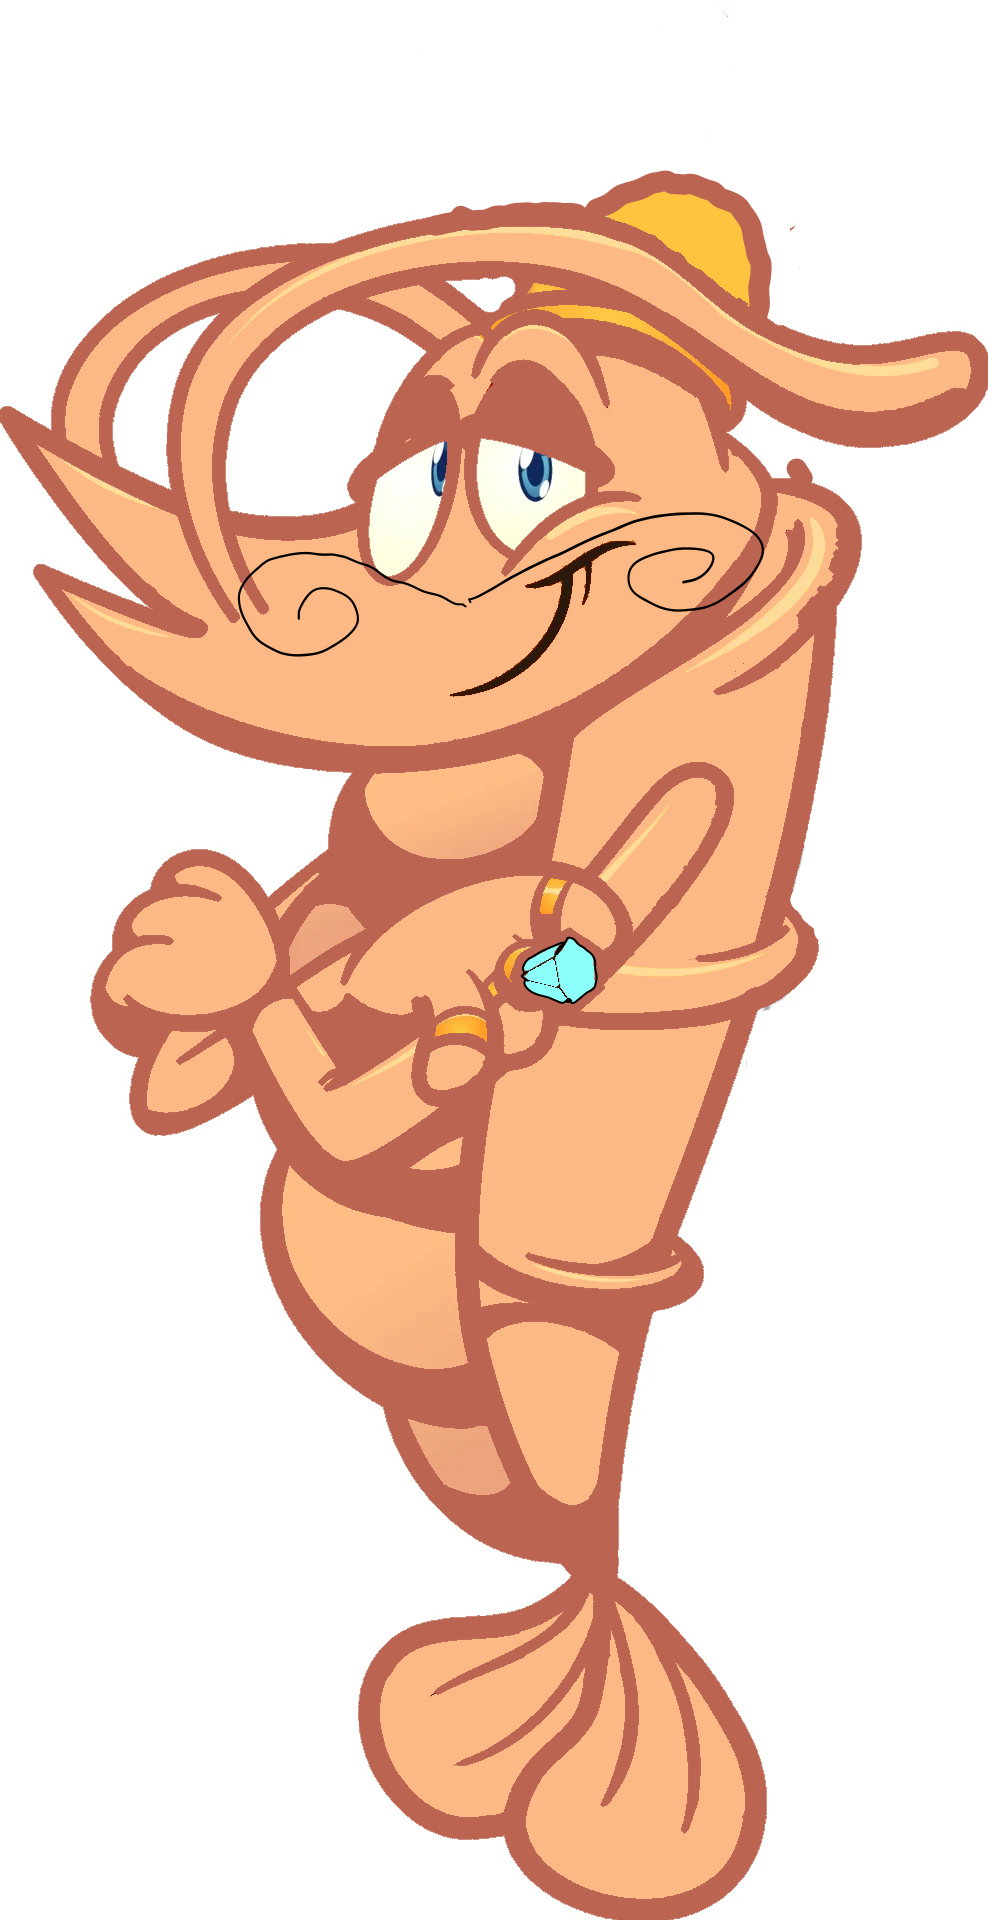
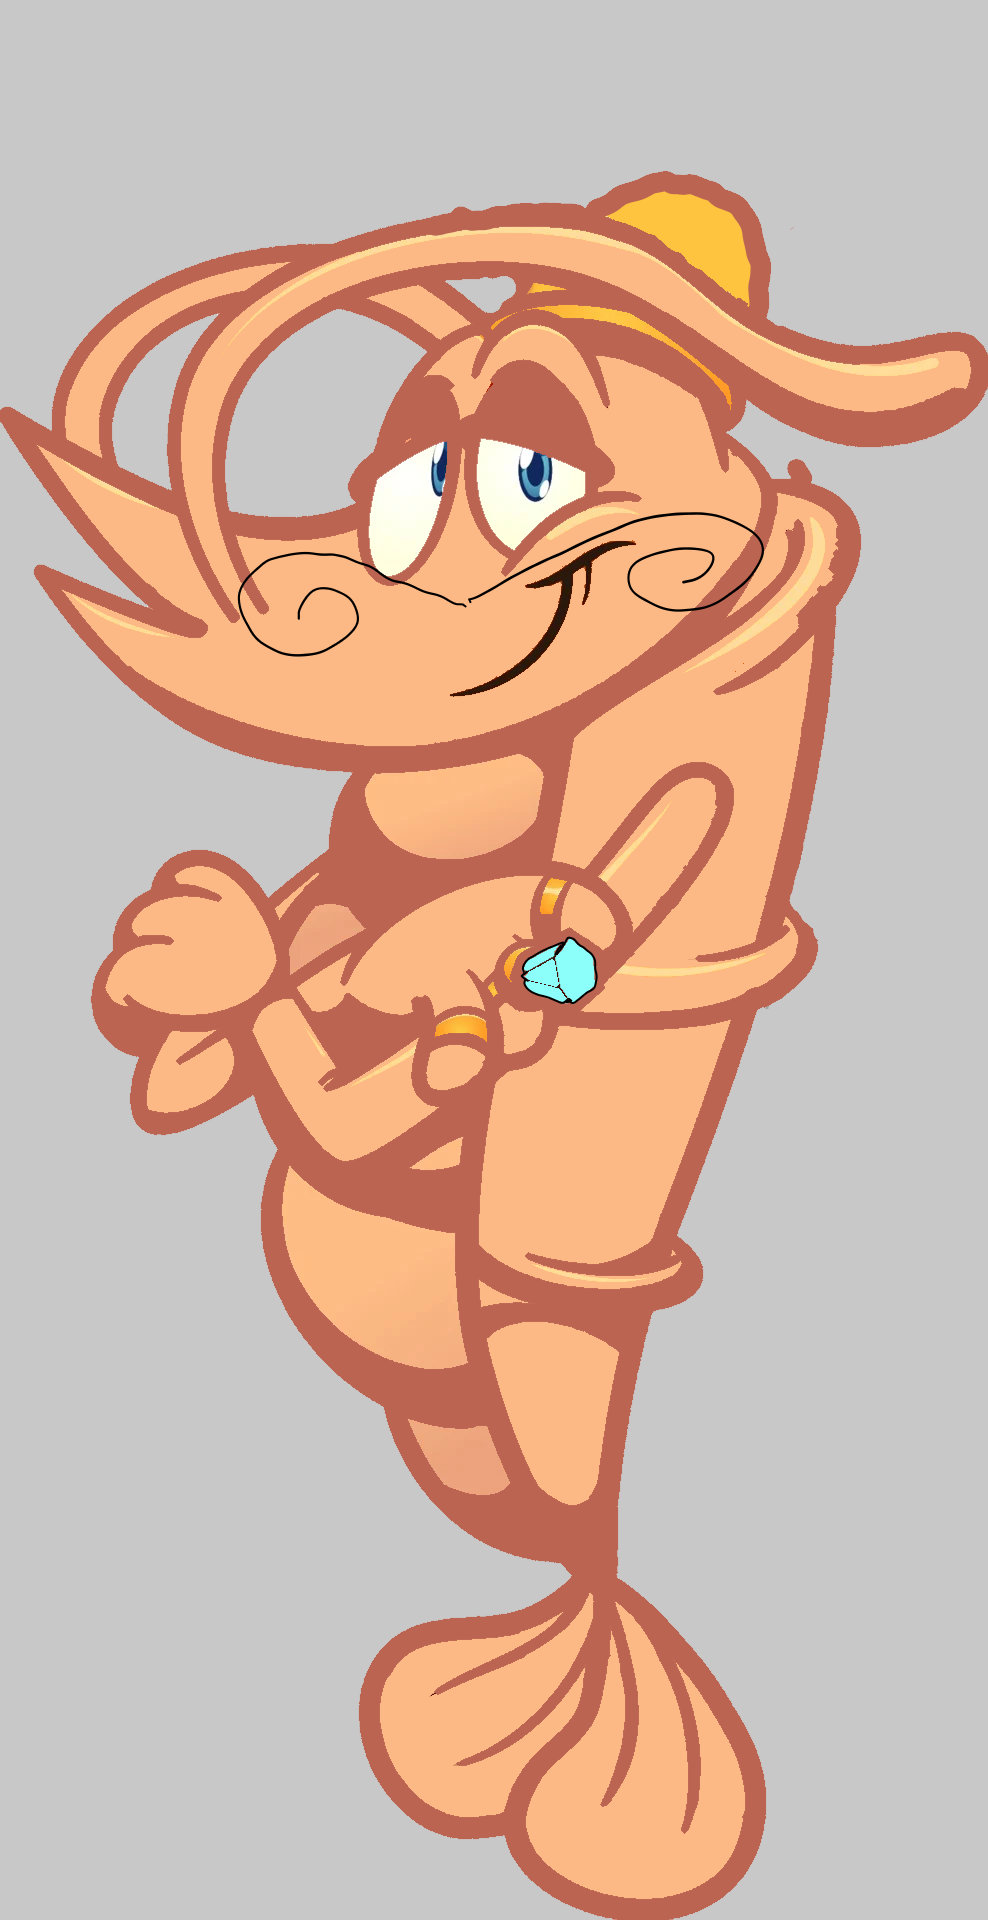
added new background color

diff --git a/styles.css b/styles.css
@@ -76,3 +76,7 @@
     width: 100%;
     height: auto;
 }
+
+body{
+    background-color: #C8C8C8;
+}
